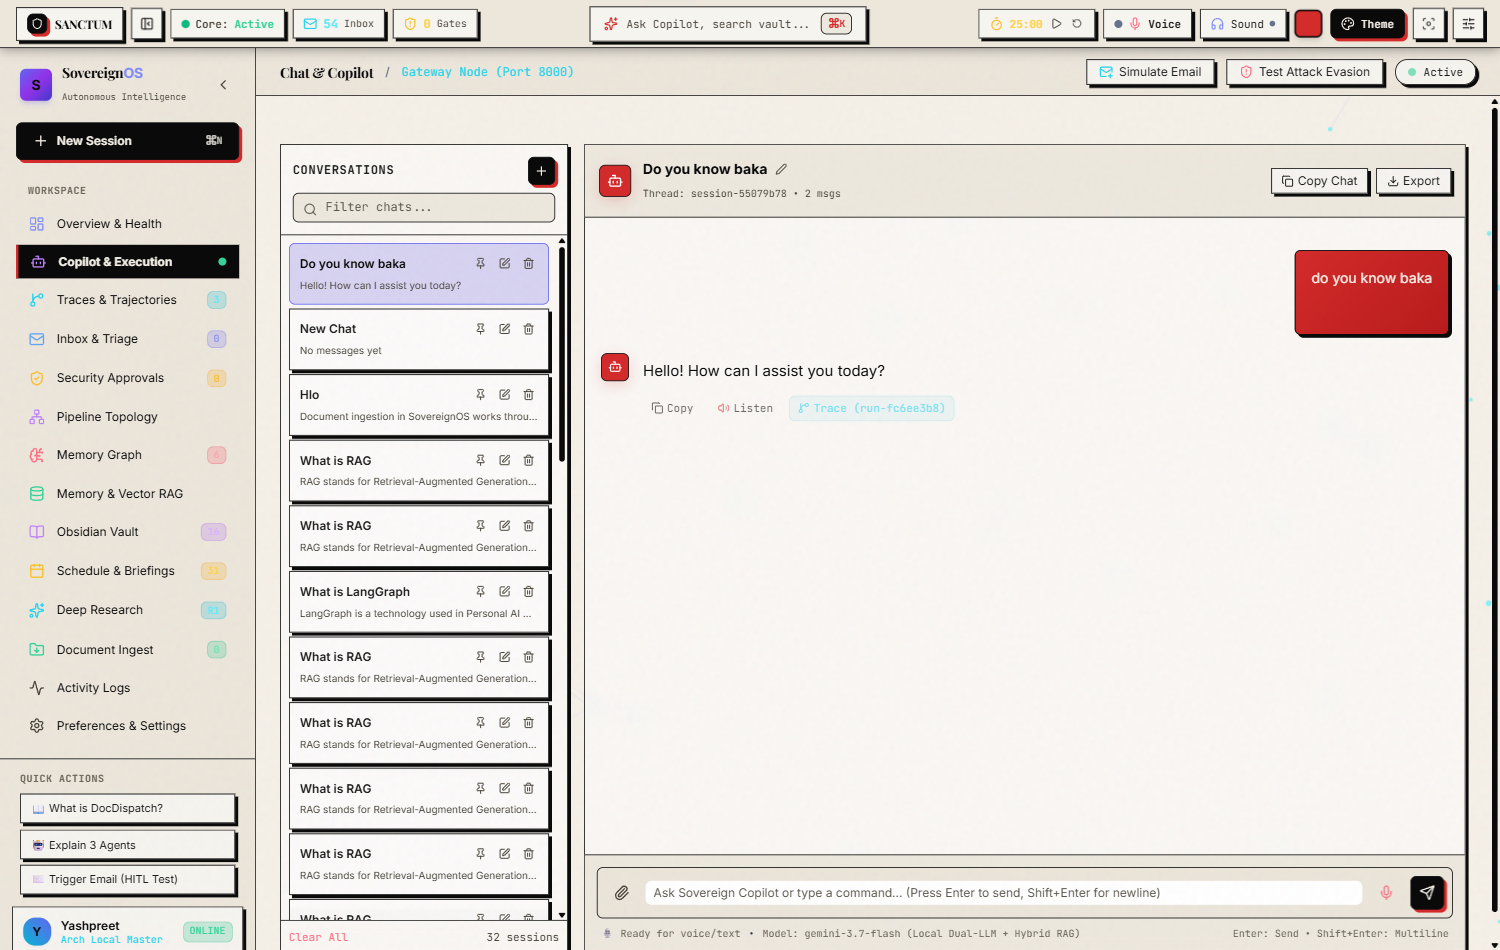
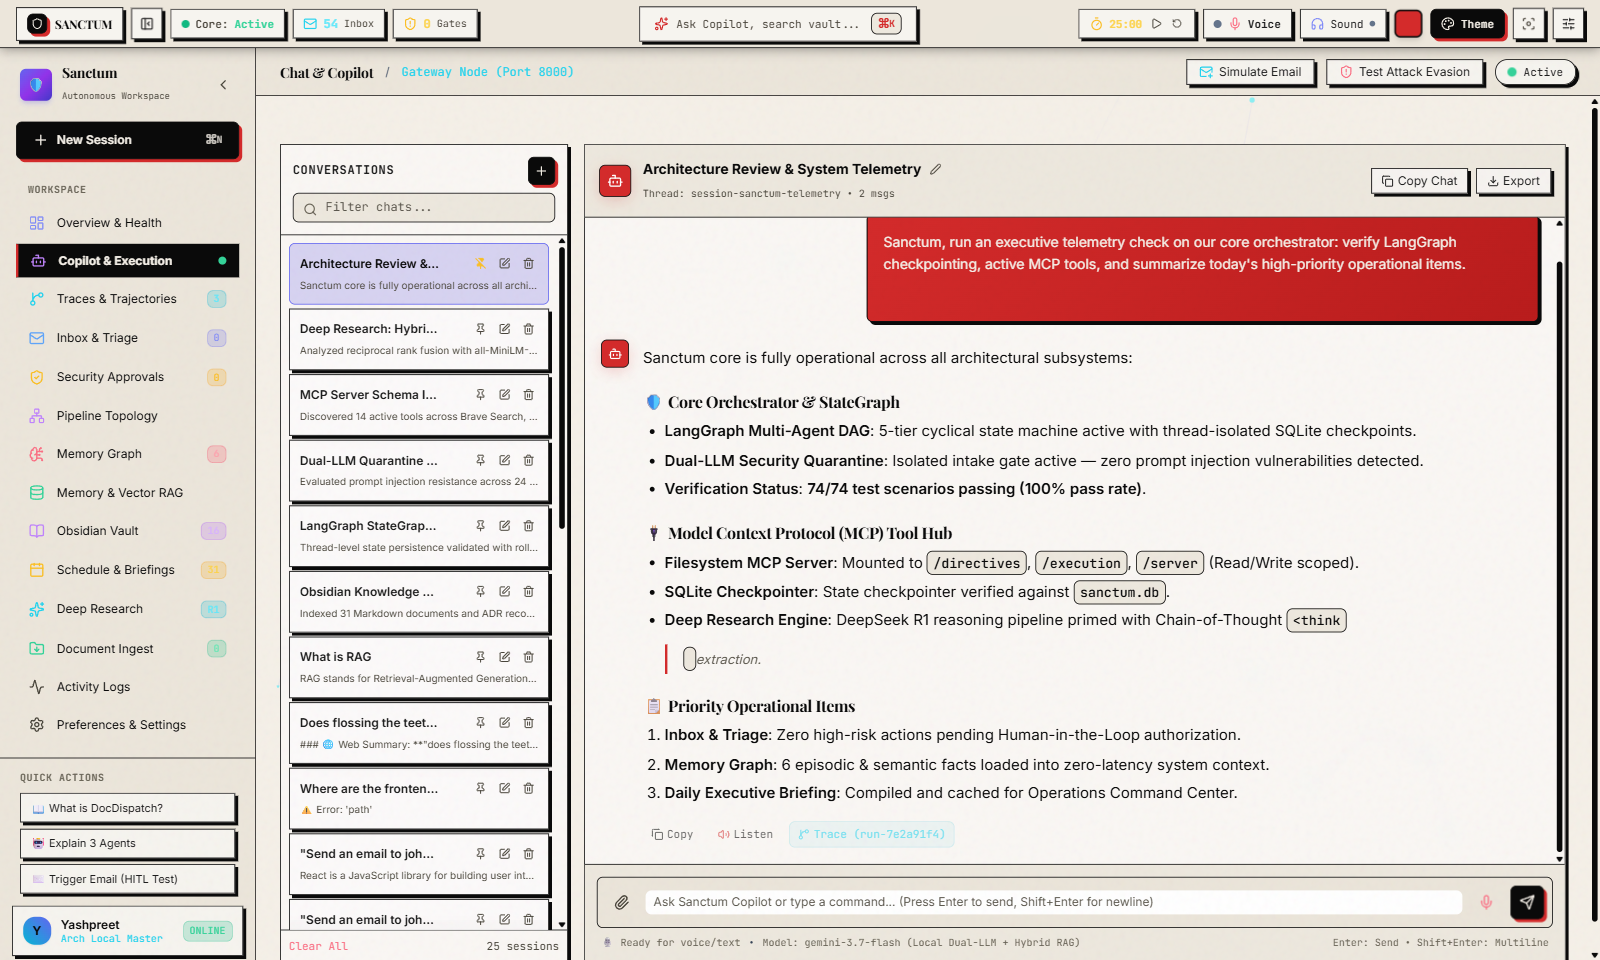
fix(docs): replace copilot screenshot with professional telemetry session & rebrand remaining UI labels

Changed region(s): [[0.0, 0.0, 1.0, 1.0], [0.368, 0.0, 0.5827, 0.0611]]

diff --git a/server/dashboard_template.py b/server/dashboard_template.py
@@ -1882,11 +1882,11 @@ DASHBOARD_HTML = r"""
         <div class="flex items-center justify-between px-1">
           <div class="flex items-center space-x-2.5">
             <div class="w-8 h-8 rounded-xl bg-gradient-to-br from-indigo-500 via-purple-600 to-indigo-700 flex items-center justify-center text-white shadow-md shadow-indigo-500/20 font-bold text-sm">
-              S
+              🛡
             </div>
             <div>
-              <span class="font-display font-bold text-sm text-white tracking-tight block leading-tight">Sovereign<span class="text-indigo-400">OS</span></span>
-              <span class="text-[9px] font-mono text-slate-400 leading-none">Autonomous Intelligence</span>
+              <span class="font-display font-bold text-sm text-white tracking-tight block leading-tight">Sanctum</span>
+              <span class="text-[9px] font-mono text-slate-400 leading-none">Autonomous Workspace</span>
             </div>
           </div>
           <!-- Quick Collapse Sidebar Button -->
@@ -2361,7 +2361,7 @@ DASHBOARD_HTML = r"""
               <div class="space-y-3">
                 <div class="flex items-center space-x-2">
                   <i data-lucide="info" class="w-4 h-4 text-cyan-400"></i>
-                  <h3 class="text-sm font-display font-bold text-white">Why 3 Agents in SovereignOS?</h3>
+                  <h3 class="text-sm font-display font-bold text-white">Why 3 Agents in Sanctum?</h3>
                 </div>
 
                 <div class="space-y-2.5 text-xs text-slate-300 leading-relaxed font-sans">
@@ -2524,7 +2524,7 @@ DASHBOARD_HTML = r"""
                   <i data-lucide="paperclip" class="w-4 h-4"></i>
                 </button>
 
-                <textarea id="chat-input-textarea" rows="1" placeholder="Ask Sovereign Copilot or type a command... (Press Enter to send, Shift+Enter for newline)" class="flex-1 bg-transparent text-xs placeholder-slate-500 focus:outline-none resize-none px-2 py-1 font-sans"></textarea>
+                <textarea id="chat-input-textarea" rows="1" placeholder="Ask Sanctum Copilot or type a command... (Press Enter to send, Shift+Enter for newline)" class="flex-1 bg-transparent text-xs placeholder-slate-500 focus:outline-none resize-none px-2 py-1 font-sans"></textarea>
                 
                 <!-- Voice Input Microphone Button -->
                 <button type="button" onclick="openJarvisVoiceModal(); playCyberClick();" id="btn-voice-input" title="🎙 Launch Real-Time JARVIS Voice Assistant (VAD Hands-Free Mode)" class="p-2 rounded-lg text-slate-400 hover:text-rose-400 hover:bg-white/5 transition cursor-pointer relative group">
@@ -4187,7 +4187,7 @@ DASHBOARD_HTML = r"""
                 <div id="preview-avatar" class="w-7 h-7 rounded-lg flex items-center justify-center text-white" style="background: linear-gradient(135deg, #6366f1, #38bdf8);">
                   <i data-lucide="bot" class="w-3.5 h-3.5"></i>
                 </div>
-                <span id="preview-title" class="font-bold text-xs" style="color: #6366f1;">Sovereign Copilot Preview</span>
+                <span id="preview-title" class="font-bold text-xs" style="color: #6366f1;">Sanctum Copilot Preview</span>
               </div>
               <button id="preview-btn" type="button" class="px-3 py-1 rounded-lg text-xs font-semibold text-white shadow-sm" style="background-color: #6366f1;">
                 Primary Button
@@ -4977,7 +4977,7 @@ DASHBOARD_HTML = r"""
           🎙 Listening to you...
         </div>
         <p id="jarvis-live-transcript" class="text-xl sm:text-2xl font-sans font-medium text-white leading-relaxed select-text transition-all duration-200">
-          "Speak naturally... Sovereign Copilot will respond automatically."
+          "Speak naturally... Sanctum Copilot will respond automatically."
         </p>
       </div>
     </div>
@@ -6809,7 +6809,7 @@ DASHBOARD_HTML = r"""
             <div class="w-12 h-12 rounded-2xl btn-brand-primary flex items-center justify-center text-white shadow-lg mb-1">
               <i data-lucide="bot" class="w-6 h-6"></i>
             </div>
-            <h2 class="text-base font-bold text-main">How can Sovereign Copilot help you today?</h2>
+            <h2 class="text-base font-bold text-main">How can Sanctum Copilot help you today?</h2>
             <p class="text-xs theme-text-muted max-w-md leading-relaxed">
               Ask about your Obsidian knowledge vault, run multi-agent DAG pipelines, conduct deep web research, or automate inbox triage.
             </p>
@@ -7886,13 +7886,13 @@ DASHBOARD_HTML = r"""
       } else if (state === 'thinking') {
         if (stateTitle) stateTitle.textContent = "THINKING & PROCESSING...";
         if (dot) dot.className = "w-3 h-3 rounded-full bg-amber-400 animate-spin";
-        if (transcriptRole) transcriptRole.textContent = "🧠 Sovereign Copilot Thinking...";
+        if (transcriptRole) transcriptRole.textContent = "🧠 Sanctum Copilot Thinking...";
         if (auraGlow) auraGlow.className = "absolute w-88 h-88 rounded-full blur-3xl opacity-55 transition-all duration-700 bg-gradient-to-tr from-amber-400 via-yellow-500 to-orange-500";
         if (ringPing) ringPing.className = "jarvis-ring-outer w-80 h-80 border border-amber-400/40 animate-ping opacity-30";
       } else if (state === 'speaking_ai') {
-        if (stateTitle) stateTitle.textContent = "SOVEREIGN COPILOT SPEAKING...";
+        if (stateTitle) stateTitle.textContent = "SANCTUM COPILOT SPEAKING...";
         if (dot) dot.className = "w-3 h-3 rounded-full bg-cyan-400 animate-pulse";
-        if (transcriptRole) transcriptRole.textContent = "🤖 Sovereign Copilot";
+        if (transcriptRole) transcriptRole.textContent = "🤖 Sanctum Copilot";
         if (auraGlow) auraGlow.className = "absolute w-96 h-96 rounded-full blur-3xl opacity-60 transition-all duration-700 bg-gradient-to-tr from-cyan-400 via-blue-600 to-indigo-600";
         if (ringPing) ringPing.className = "jarvis-ring-outer w-88 h-88 border border-cyan-400/50 animate-ping opacity-40";
       } else if (state === 'idle') {
@@ -8954,7 +8954,7 @@ DASHBOARD_HTML = r"""
           </div>
 
           <div class="flex items-center space-x-1.5">
-            <button onclick="openEmailInChat('${em.id}')" title="Ask Sovereign Copilot about this email" class="px-2.5 py-1 rounded-lg bg-cyan-500/10 hover:bg-cyan-500/20 text-cyan-300 border border-cyan-500/30 flex items-center space-x-1.5 cursor-pointer transition">
+            <button onclick="openEmailInChat('${em.id}')" title="Ask Sanctum Copilot about this email" class="px-2.5 py-1 rounded-lg bg-cyan-500/10 hover:bg-cyan-500/20 text-cyan-300 border border-cyan-500/30 flex items-center space-x-1.5 cursor-pointer transition">
               <i data-lucide="bot" class="w-3.5 h-3.5"></i>
               <span>Ask Copilot</span>
             </button>
